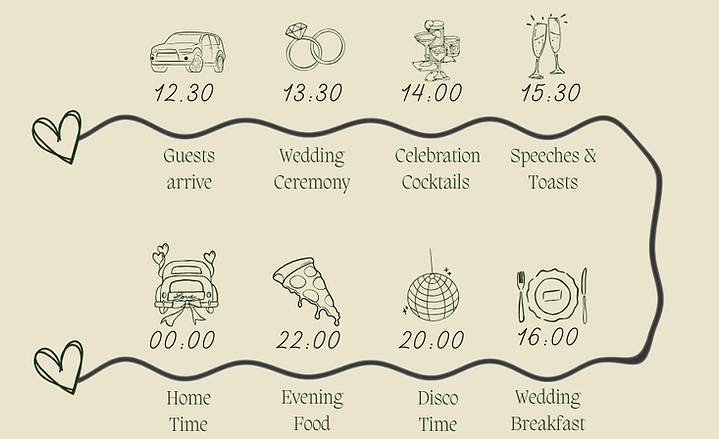
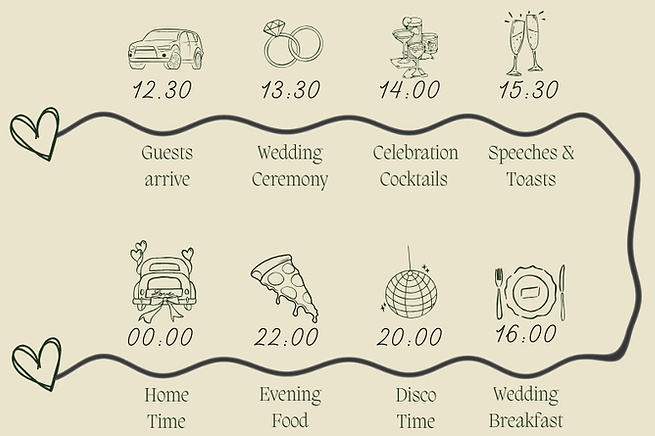
Sorted mobile stacking

diff --git a/styles/layout.css b/styles/layout.css
@@ -159,10 +159,10 @@ body {
     text-align: center;      /* fallback for child text */
 
     /* Use transparent PNG colour background */
-    background-image: url('../assets/images/backgrounds/slide3_textBox.png');
-    background-repeat: no-repeat;
-    background-size: cover;      /* stretch to fill container */
-    background-position: center; /* center the image */
+    /* background-image: url('../assets/images/backgrounds/slide3_textBox.png');*/
+    /*background-repeat: no-repeat;*/
+    /*background-size: cover;      /* stretch to fill container */
+    /*background-position: center; /* center the image */
     
 
     background-color: rgba(255, 255, 255, 0.6);
@@ -598,7 +598,6 @@ body {
     .slide1,
     .slide2,
     .slide3,
-    .slide4,
     .slide5,
     .slide6,
     .slide7,
@@ -611,7 +610,6 @@ body {
     /* Remove most absolute positioning */
     .slide2-text-container,
     .slide3-text-container,
-    .slide4-text-container,
     .slide5-text-container,
     .slide6-text-container,
     .slide7-text-container {
@@ -620,7 +618,32 @@ body {
         top: auto;
     }
 
-    /* 🔥 Make all large text readable */
+    .slide4 {
+        flex-direction: column;    /* stack children vertically */
+        align-items: center;       /* center content horizontally */
+        width: 95vw;
+        padding: 8vw auto;
+    }
+
+    .slide4-text-container {
+        position: relative;      /* remove absolute positioning */
+        width: 90%;              /* nearly full width */
+        top: auto;               /* reset top */
+        margin-bottom: 5vw;
+    }
+
+    .slide4 .imageS4 {
+        position: relative;
+        width: 100%;              /* make it bigger */
+        max-width: 100%;
+        height: auto;
+        margin: 0 auto;            /* center image */
+        top: auto;                 /* reset previous top */
+        transform: none;
+    }
+
+
+    /* Makes text readable */
     .slide3-text-container .mainText,
     .slide5-text-container .mainText,
     .slide7-text-container .mainText {
@@ -643,18 +666,43 @@ body {
         font-size: 10vw;
     }
 
+    /* SLIDE 2 text resizing */
+    .september-date{
+        font-size: 10vw;
+    }
+    .at {
+        font-size: 6vw;
+    }
+    .venue {
+        font-size: 6vw;
+    }
+
+    /* SLIDE 3 text resizing */
+    .slide3-text-container .names {
+        font-size: 6vw;
+    }
+
     /* SLIDE 2 image + text stack vertically */
-    .slide2 {
+    .slide2,
+    .slide3,
+    .slide4,
+    .slide5,
+    .slide7 {
         flex-direction: column;
         padding: 5vw 0;
     }
 
-    .imageS2 {
-        position: relative;
-        max-width: 80%;
+    /* Centre imageS2 */
+    .imageS2.left {
+        position: relative;       /* remove absolute positioning */
+        top: auto;
         left: auto;
-        transform: none;
-        margin-bottom: 5vw;
+        transform: none;          /* remove shift */
+        display: block;           /* needed for margin auto */
+        margin: 0 auto 5vw auto;  /* horizontal centering + bottom spacing */
+        width: 70vw;              /* make it bigger */
+        max-width: 90vw;          /* optional: prevent overflow */
+        height: auto;
     }
 
     .slide2-text-container {
@@ -688,9 +736,9 @@ body {
         padding: 1.2em 1em;
     }
 
-    /* SLIDE 7 remove floating image */
+    /* Was only there to fill space on desktop */
     .imageS7 {
-        display: none;
+    display: none;
     }
 
     /* SLIDE 8 form full width */
@@ -700,11 +748,17 @@ body {
     }
 
     .rsvp-container {
-        width: 90%;
+        width: 100%;           /* nearly full width */
+        max-width: 100%;     /* optional: cap width for bigger phones */
+        
     }
 
     .rsvp-container iframe {
-        height: 70vh;
+        width: 100%;
+        height: 90vh;         /* nearly full viewport height */
+        min-height: 500px;    /* prevents too small iframe on short screens */
+        border: none;
+        border-radius: 20px;
     }
 
 }
